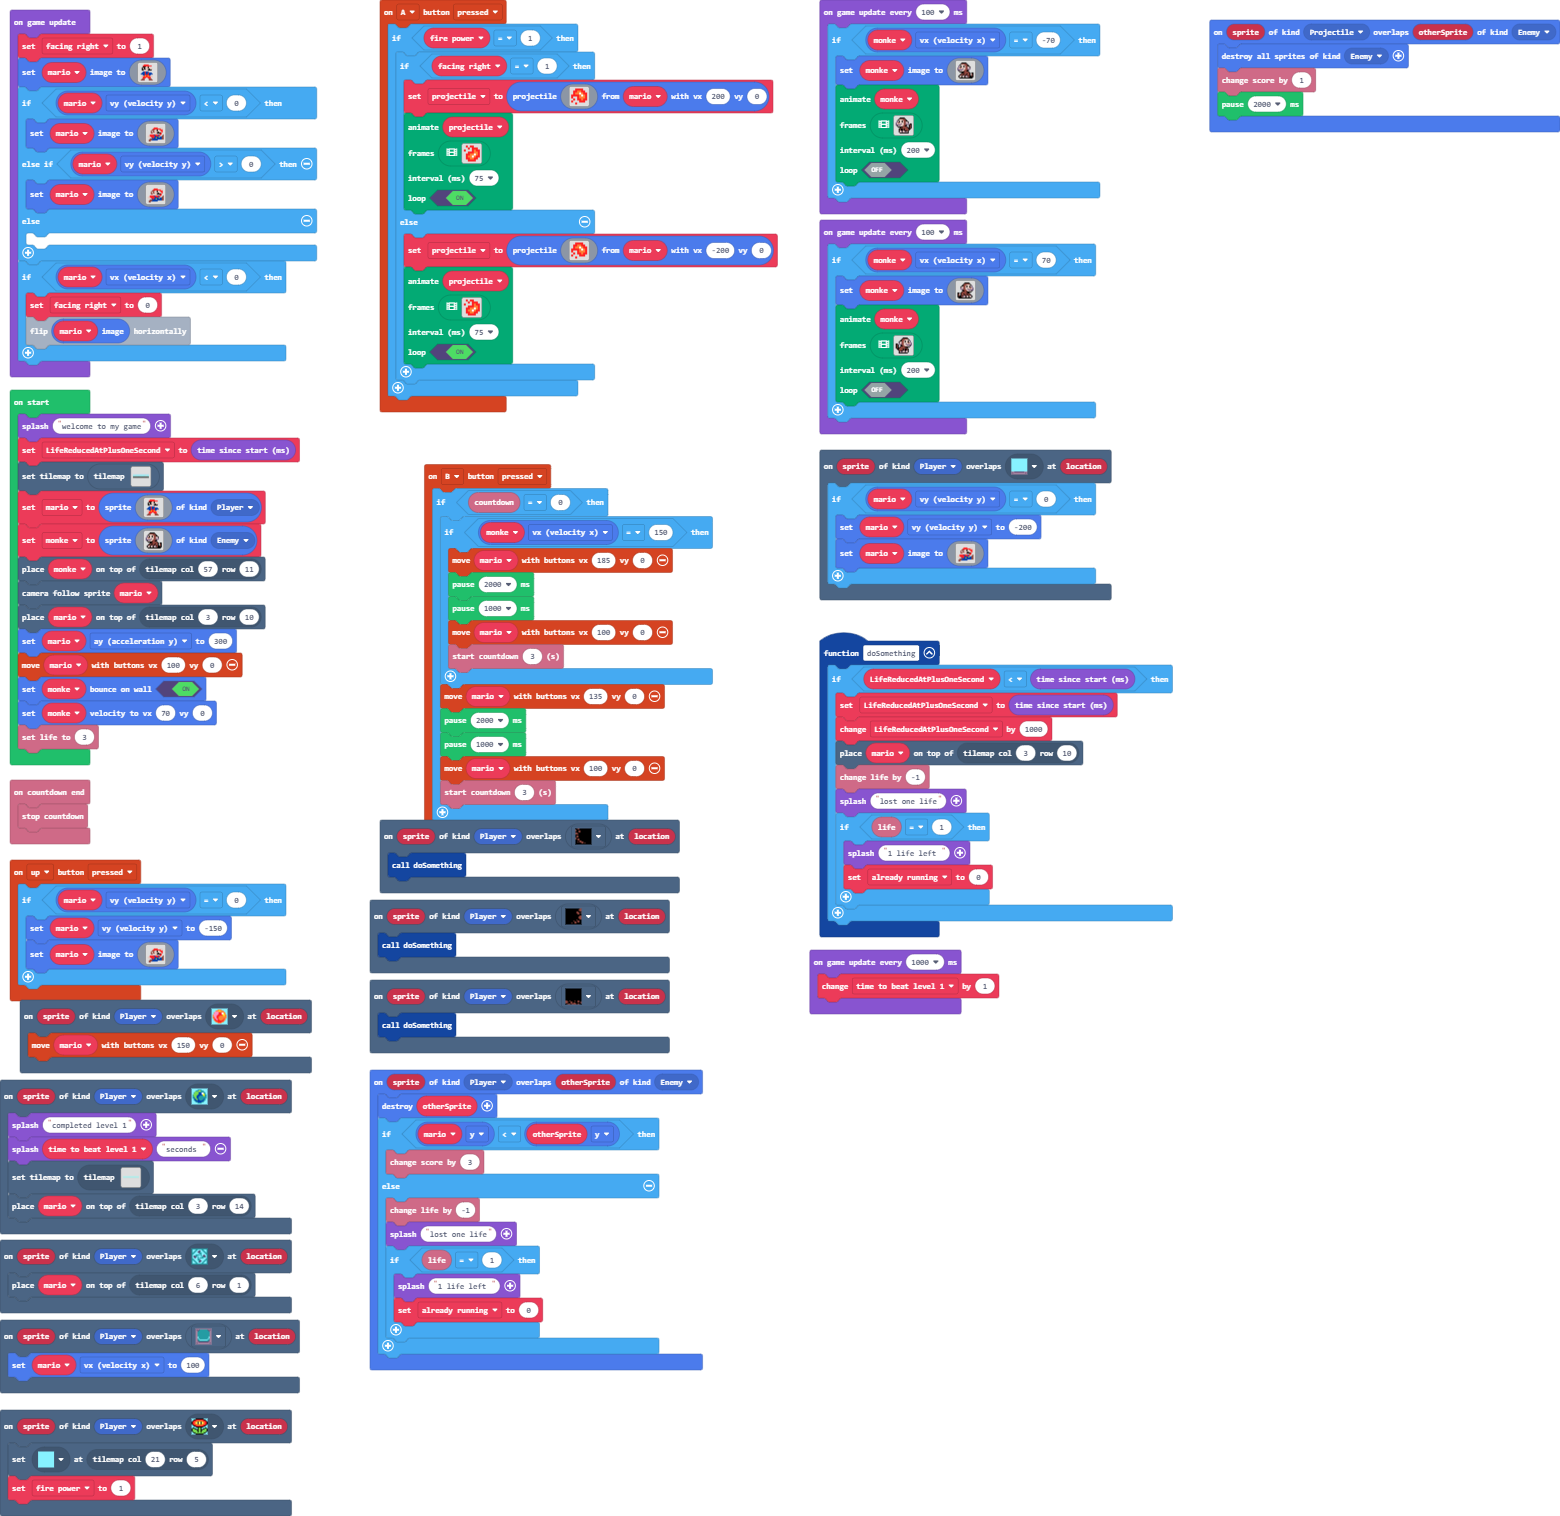
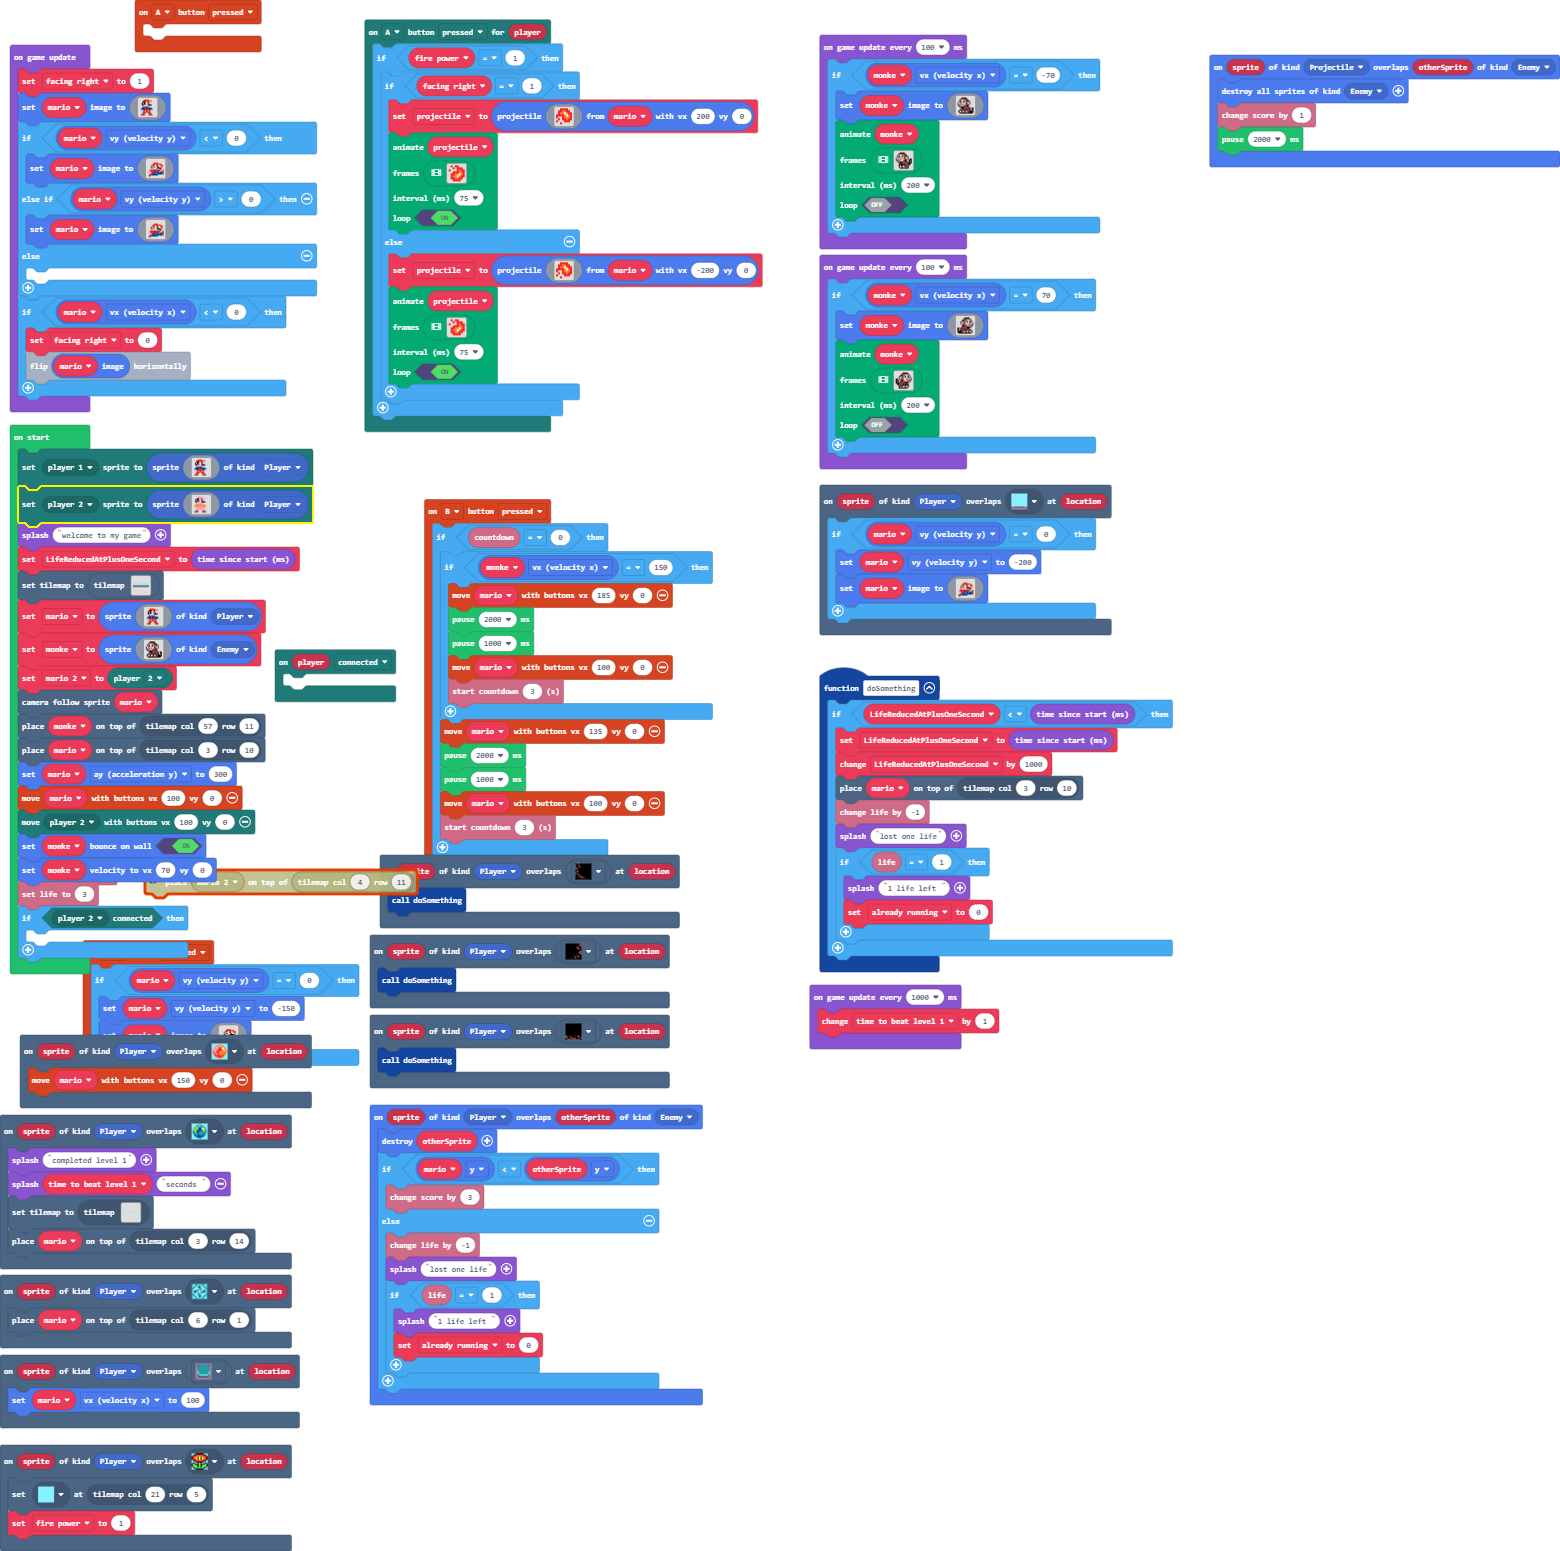
Update main.blocks, main.ts

diff --git a/main.ts b/main.ts
@@ -44,6 +44,9 @@ controller.B.onEvent(ControllerButtonEvent.Pressed, function () {
     }
 })
 controller.A.onEvent(ControllerButtonEvent.Pressed, function () {
+	
+})
+mp.onButtonEvent(mp.MultiplayerButton.A, ControllerButtonEvent.Pressed, function (player2) {
     if (fire_power == 1) {
         if (facing_right == 1) {
             projectile = sprites.createProjectileFromSprite(img`
@@ -208,6 +211,9 @@ scene.onOverlapTile(SpriteKind.Player, assets.tile`myTile10`, function (sprite, 
             `)
     }
 })
+mp.onControllerEvent(ControllerEvent.Connected, function (player2) {
+	
+})
 sprites.onOverlap(SpriteKind.Projectile, SpriteKind.Enemy, function (sprite, otherSprite) {
     sprites.destroyAllSpritesOfKind(SpriteKind.Enemy)
     info.changeScoreBy(1)
@@ -241,6 +247,42 @@ let time_to_beat_level_1 = 0
 let monke: Sprite = null
 let mario: Sprite = null
 let LifeReducedAtPlusOneSecond = 0
+mp.setPlayerSprite(mp.playerSelector(mp.PlayerNumber.One), sprites.create(img`
+    . . . . 2 2 2 2 2 . . . . . . . 
+    . . . 2 2 2 2 2 2 2 2 2 . . . . 
+    . . . f f f d d f d . . . . . . 
+    . . f d f d d d f d d d . . . . 
+    . . f d f f d d d f d d d . . . 
+    . . f f d d d d f f f f . . . . 
+    . . . . d d d d d d d . . . . . 
+    . . . 8 8 2 8 8 8 . . . . . . . 
+    . . 8 8 8 2 8 8 2 8 8 8 . . . . 
+    . 8 8 8 8 2 8 8 2 8 8 8 8 . . . 
+    . d d 8 8 2 2 2 2 8 8 d d . . . 
+    . d d d 2 5 2 2 5 2 d d d . . . 
+    . d d 2 2 2 2 2 2 2 2 d d . . . 
+    . . . 2 2 2 . . 2 2 2 . . . . . 
+    . . e e e . . . . e e e . . . . 
+    . e e e e . . . . e e e e . . . 
+    `, SpriteKind.Player))
+mp.setPlayerSprite(mp.playerSelector(mp.PlayerNumber.Two), sprites.create(img`
+    . . . . 3 3 3 3 3 . . . . . . . 
+    . . . 3 3 3 3 3 3 3 3 3 . . . . 
+    . . . f f f d d f d . . . . . . 
+    . . f d f d d d f d d d . . . . 
+    . . f d f f d d d f d d d . . . 
+    . . f f d d d d f f f f . . . . 
+    . . . . d d d d d d d . . . . . 
+    . . . 4 4 3 4 4 4 . . . . . . . 
+    . . 4 4 4 3 4 4 3 4 4 4 . . . . 
+    . 4 4 4 4 3 4 4 3 4 4 4 4 . . . 
+    . d d 4 4 3 3 3 3 4 4 d d . . . 
+    . d d d 3 5 3 3 5 3 d d d . . . 
+    . d d 3 3 3 3 3 3 3 3 d d . . . 
+    . . . 3 3 3 . . 3 3 3 . . . . . 
+    . . e e e . . . . e e e . . . . 
+    . e e e e . . . . e e e e . . . 
+    `, SpriteKind.Player))
 game.splash("welcome to my game")
 LifeReducedAtPlusOneSecond = game.runtime()
 tiles.setCurrentTilemap(tilemap`level1`)
@@ -280,14 +322,19 @@ monke = sprites.create(img`
     . f d d f d d f d d b e f f f f 
     . . f f f f f f f f f f f f f . 
     `, SpriteKind.Enemy)
-tiles.placeOnTile(monke, tiles.getTileLocation(57, 11))
+let mario_2 = mp.playerSelector(mp.PlayerNumber.Two)
 scene.cameraFollowSprite(mario)
+tiles.placeOnTile(monke, tiles.getTileLocation(57, 11))
 tiles.placeOnTile(mario, tiles.getTileLocation(3, 10))
 mario.ay = 300
 controller.moveSprite(mario, 100, 0)
+mp.moveWithButtons(mp.playerSelector(mp.PlayerNumber.Two), 100, 0)
 monke.setBounceOnWall(true)
 monke.setVelocity(70, 0)
 info.setLife(3)
+if (mp.isConnected(mp.playerSelector(mp.PlayerNumber.Two))) {
+	
+}
 game.onUpdate(function () {
     facing_right = 1
     mario.setImage(img`
